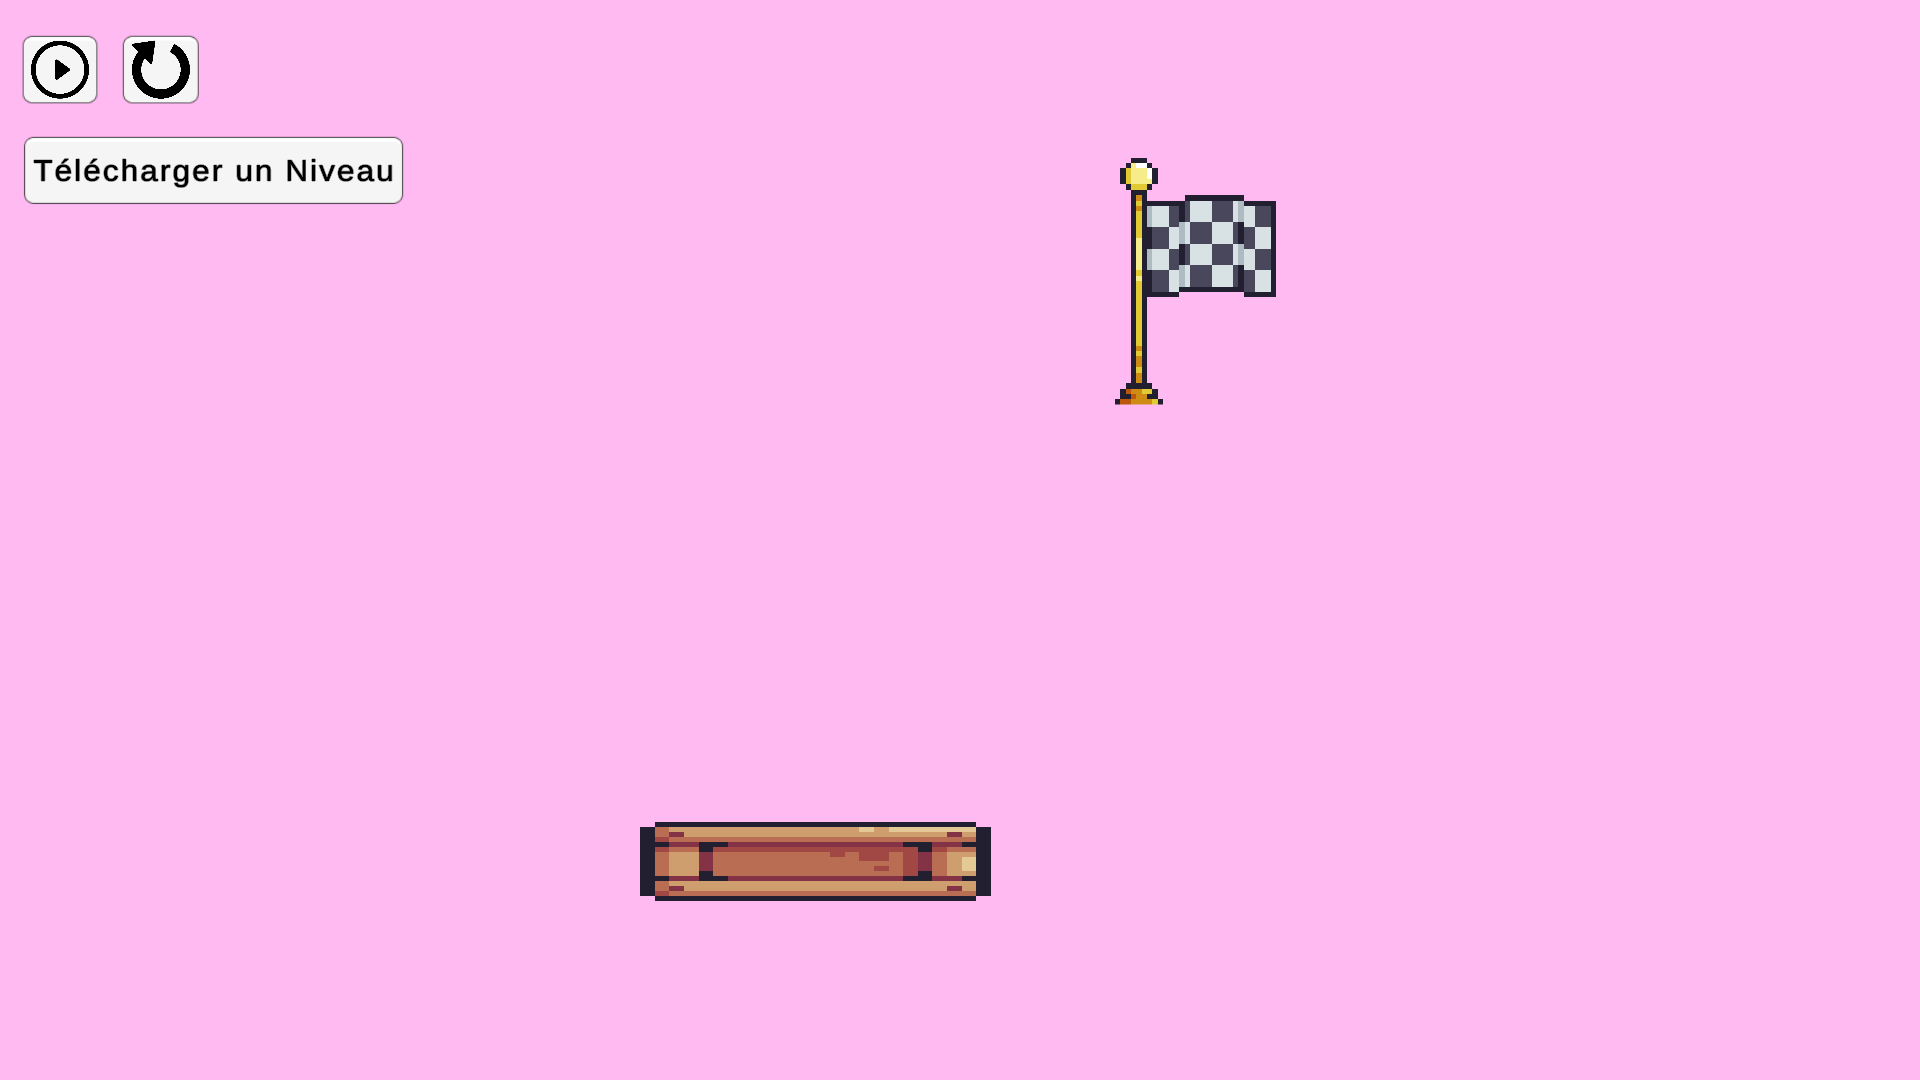
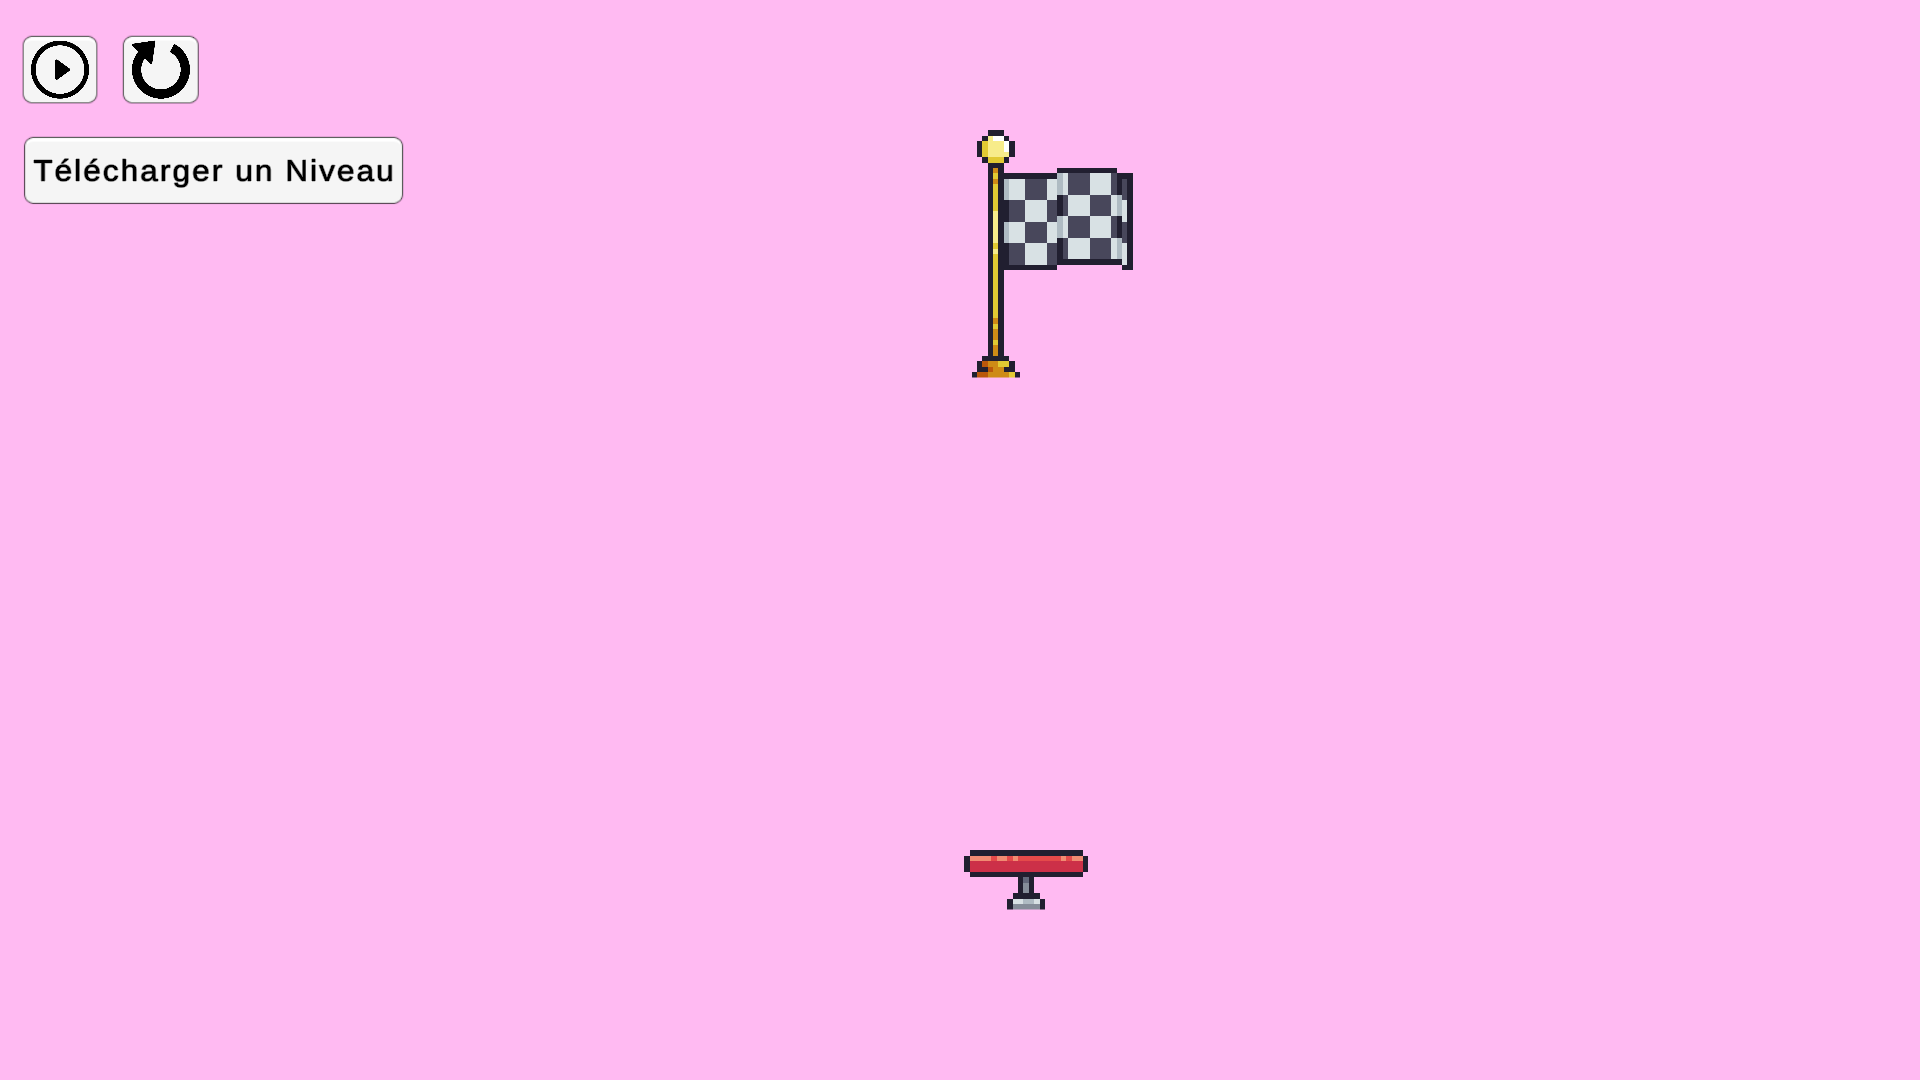
camera reparée

Changed region(s): [[0.5, 0.1222, 0.6875, 0.3972], [0.3125, 0.7639, 0.5625, 0.8556]]

diff --git a/Assets/Scripts/NiveauManager.cs b/Assets/Scripts/NiveauManager.cs
@@ -51,7 +51,7 @@ public class NiveauManager : MonoBehaviour
     IEnumerator attenteCaptureEcran()
     {//Pour prendre la capture d'�cran avant que le UI ouvre
         prendreCaptureEcran();
-        yield return new WaitForSeconds(5.0f);
+        yield return new WaitForSeconds(1.0f);
         niveauUploadUI.SetActive(true);
         Mouvement.setCanMove(false);
     }

diff --git a/Assets/Scripts/Mouvement.cs b/Assets/Scripts/Mouvement.cs
@@ -45,6 +45,8 @@ public class Mouvement : MonoBehaviour
     {
         repos = true;
         transform.position = positionInitiale;
+        Time.timeScale = 1f;
+
     }
 
     // Update is called once per frame
@@ -53,6 +55,7 @@ public class Mouvement : MonoBehaviour
         if (transform.position.y < limite)
         {
             respawn();
+
         }
 
 
